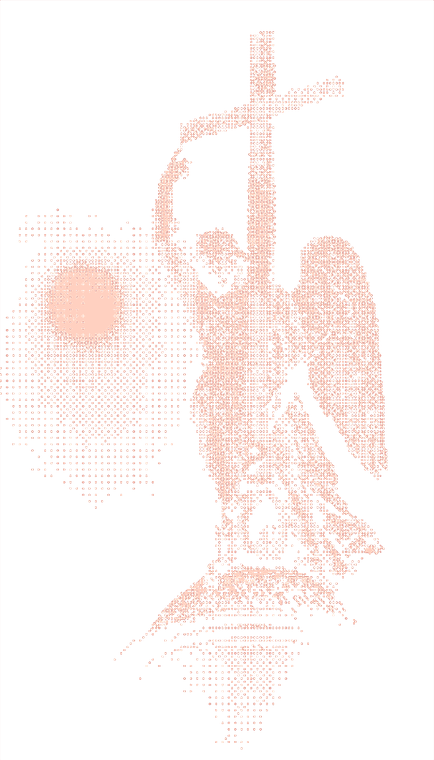
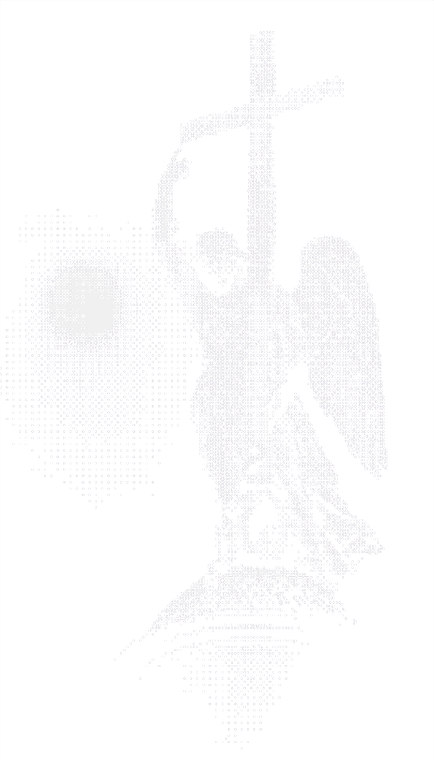
feat(mensajes): las 3 figuras del fondo en gris-tinta (sin rojo) + burbujas/acciones del chat en tema Tinta
- chat-fig-izq/centro/der.png: reprocesadas en gris-tinta (colorize a
  #c8c6d0 con brillos fríos) en vez del rojo #c0524a — el fondo va todo en
  Tinta; el único color que queda es el rojo de las palabras de Cristo del
  texto red-letter.
- Bubble.js: acciones al pasar el mouse (responder / borrar) pasan de un
  botón de texto a íconos que aparecen con un fundido corto (.bubble-act,
  hover en .bubble-wrap); cita de respuesta con la regla gris-tinta + itálica
  de EB Garamond; burbuja de audio deja el fondo blanco/panel y usa el par
  #ecebef / #16161b como el resto.
- chatStyles.js: .reply-btn -> .bubble-actions/.bubble-act.

next build verde; sin errores nuevos de eslint.

Claude-Session: https://claude.ai/code/session_015APmLuZJ7gqRugRfM55xug

Changed region(s): [[0.0, 0.0303, 0.8986, 0.9684]]

diff --git a/frontend/src/components/chat/Bubble.js b/frontend/src/components/chat/Bubble.js
@@ -2,7 +2,6 @@
 
 import { useState } from "react";
 import { API } from "@/lib/api";
-import { HOLO_THEME } from "@/lib/theme";
 import Lightbox from "@/components/Lightbox";
 import MicIcon from "./MicIcon";
 import AudioPlayer from "./AudioPlayer";
@@ -28,7 +27,6 @@ import AudioReplyPreview from "./AudioReplyPreview";
 //     app/chat/page.js, que a su vez usan hooks/useChat.js.
 // ════════════════════════════════════════════════════════════════════════
 export default function Bubble({ msg, esPropio, replyMsg, onReply, onDelete }) {
-  const [hov,      setHov]      = useState(false);
   const [delPhase, setDelPhase] = useState("idle");
   const [lightbox, setLightbox] = useState(false);
   const formatTime = d => d ? new Date(d).toLocaleTimeString("es-MX", { hour:"2-digit", minute:"2-digit" }) : "";
@@ -43,47 +41,48 @@ export default function Bubble({ msg, esPropio, replyMsg, onReply, onDelete }) {
     }, 320);
   };
 
-  const trashCol = delPhase === "idle" ? "rgba(255,255,255,.4)" : "rgba(255,80,80,.85)";
+  const trashCol = delPhase === "idle" ? "currentColor" : "rgba(255,80,80,.85)";
 
   return (
-    <div onMouseEnter={() => setHov(true)} onMouseLeave={() => setHov(false)}
+    <div className="bubble-wrap"
       style={{ display:"flex", flexDirection:"column", alignItems: esPropio ? "flex-end" : "flex-start", gap:3 }}>
 
-      {hov && (
-        <div style={{ display:"flex", gap:4, alignItems:"center", marginBottom:2 }}>
-          <div className="reply-btn" onClick={() => onReply(msg)}>↩ responder</div>
-          {esPropio && (
-            <button onClick={handleDelete} title="Eliminar"
-              style={{ background:"none", border:"none", cursor:"pointer", padding:"2px 4px", display:"flex", alignItems:"center" }}>
-              <div style={{
-                transition: delPhase==="shrink" ? "all .28s cubic-bezier(.4,0,.6,1)" : "none",
-                transform: delPhase==="shrink" ? "scale(.05) perspective(200px) translateZ(-80px)" : delPhase==="open" ? "scale(1.15)" : "scale(1)",
-                opacity: delPhase==="gone" ? 0 : 1,
-              }}>
-                <svg width="14" height="16" viewBox="0 0 12 14" fill="none">
-                  <rect x="1" y="3" width="10" height="10" rx="1" stroke={trashCol} strokeWidth="1"/>
-                  <path d="M4 3V2a1 1 0 0 1 1-1h2a1 1 0 0 1 1 1v1" stroke={trashCol} strokeWidth="1"/>
-                  <line x1="0" y1="3" x2="12" y2="3" stroke={trashCol} strokeWidth="1"/>
-                  <line x1="4.5" y1="6" x2="4.5" y2="10" stroke={trashCol} strokeWidth="1"/>
-                  <line x1="7.5" y1="6" x2="7.5" y2="10" stroke={trashCol} strokeWidth="1"/>
-                </svg>
-              </div>
-            </button>
-          )}
-        </div>
-      )}
+      <div className="bubble-actions">
+        <button className="bubble-act" onClick={() => onReply(msg)} title="Responder">
+          <svg width="14" height="14" viewBox="0 0 24 24" fill="none" stroke="currentColor" strokeWidth="1.8" strokeLinecap="round" strokeLinejoin="round">
+            <polyline points="9 14 4 9 9 4"/><path d="M4 9h11a5 5 0 0 1 5 5v3"/>
+          </svg>
+        </button>
+        {esPropio && (
+          <button className="bubble-act del" onClick={handleDelete} title="Eliminar">
+            <div style={{
+              transition: delPhase==="shrink" ? "all .28s cubic-bezier(.4,0,.6,1)" : "none",
+              transform: delPhase==="shrink" ? "scale(.05) perspective(200px) translateZ(-80px)" : delPhase==="open" ? "scale(1.15)" : "scale(1)",
+              opacity: delPhase==="gone" ? 0 : 1,
+            }}>
+              <svg width="14" height="15" viewBox="0 0 12 14" fill="none">
+                <rect x="1" y="3" width="10" height="10" rx="1" stroke={trashCol} strokeWidth="1"/>
+                <path d="M4 3V2a1 1 0 0 1 1-1h2a1 1 0 0 1 1 1v1" stroke={trashCol} strokeWidth="1"/>
+                <line x1="0" y1="3" x2="12" y2="3" stroke={trashCol} strokeWidth="1"/>
+                <line x1="4.5" y1="6" x2="4.5" y2="10" stroke={trashCol} strokeWidth="1"/>
+                <line x1="7.5" y1="6" x2="7.5" y2="10" stroke={trashCol} strokeWidth="1"/>
+              </svg>
+            </div>
+          </button>
+        )}
+      </div>
 
       {lightbox && isImageMsg && <Lightbox src={msg.imageUrl} onClose={() => setLightbox(false)} />}
 
-      <div className={esPropio ? "bubble-me" : "bubble-other"} style={ isAudioMsg ? { background: esPropio ? HOLO_THEME.text : HOLO_THEME.panel } : isImageMsg ? { background: "transparent", padding: 0 } : {} }>
+      <div className={esPropio ? "bubble-me" : "bubble-other"} style={ isAudioMsg ? { background: esPropio ? "#ecebef" : "#16161b" } : isImageMsg ? { background: "transparent", padding: 0 } : {} }>
         {replyMsg && (
           <div className={esPropio ? "reply-bar-me" : "reply-bar-other"}>
-            <div style={{ width:2.5, borderRadius:2, background: esPropio ? "rgba(10,10,13,.22)" : "rgba(255,255,255,.28)", alignSelf:"stretch", flexShrink:0 }} />
+            <div style={{ width:2, borderRadius:2, background: esPropio ? "rgba(21,19,24,.28)" : "#b8b3c2", alignSelf:"stretch", flexShrink:0 }} />
             <div style={{ minWidth:0 }}>
-              <div style={{ fontSize:11, fontFamily:"'Space Mono',monospace", color: esPropio ? "rgba(10,10,13,.6)" : "rgba(255,255,255,.58)", marginBottom:2, letterSpacing:".04em" }}>
+              <div style={{ fontSize:11, fontFamily:"'Space Mono',monospace", color: esPropio ? "rgba(21,19,24,.55)" : "rgba(255,255,255,.5)", marginBottom:2, letterSpacing:".04em" }}>
                 {replyMsg.emisor?.username || "Tú"}
               </div>
-              <div style={{ fontSize:13, fontFamily:"'Inter',sans-serif", color: esPropio ? "rgba(10,10,13,.42)" : "rgba(255,255,255,.36)", overflow:"hidden", textOverflow:"ellipsis", whiteSpace:"nowrap", maxWidth:280 }}>
+              <div style={{ fontSize:13, fontFamily:"'EB Garamond',Georgia,serif", fontStyle:"italic", color: esPropio ? "rgba(21,19,24,.5)" : "rgba(255,255,255,.42)", overflow:"hidden", textOverflow:"ellipsis", whiteSpace:"nowrap", maxWidth:280 }}>
                 {replyMsg.tipo === "audio" && replyMsg.audioUrl
                   ? <AudioReplyPreview src={replyMsg.audioUrl} />
                   : replyMsg.contenido}

diff --git a/frontend/src/app/chat/chatStyles.js b/frontend/src/app/chat/chatStyles.js
@@ -68,8 +68,14 @@ export const chatStyles = `
       .bubble-time-other { font-size:11px; color:rgba(242,240,248,.3); white-space:nowrap; flex-shrink:0; font-family:'Space Mono',monospace; letter-spacing:.05em; margin-top:auto; }
       .reply-bar-me    { padding:8px 14px 7px; background:rgba(10,10,13,.07); border-bottom:1px solid rgba(10,10,13,.07); display:flex; gap:8px; }
       .reply-bar-other { padding:8px 14px 7px; background:rgba(255,255,255,.05); border-bottom:1px solid ${HOLO_THEME.hairlineSoft}; display:flex; gap:8px; }
-      .reply-btn { padding:3px 12px; background:rgba(255,255,255,.05); border-radius:999px; border:1px solid ${HOLO_THEME.hairlineSoft}; font-size:12px; font-family:'Space Mono',monospace; color:${HOLO_THEME.textDim}; cursor:pointer; display:inline-flex; gap:4px; align-items:center; animation:fadeIn .1s ease; letter-spacing:.06em; transition:all .15s; }
-      .reply-btn:hover { background:rgba(255,255,255,.1); color:${HOLO_THEME.text}; }
+      /* Acciones al pasar el mouse por un mensaje (responder / borrar) —
+         íconos que aparecen con un fundido corto, no un botón de texto. */
+      .bubble-actions { display:flex; gap:2px; margin-bottom:3px; opacity:0; transform:translateY(2px); transition:opacity .16s, transform .16s; }
+      .bubble-wrap:hover .bubble-actions { opacity:1; transform:none; }
+      .bubble-act { width:26px; height:26px; border-radius:7px; display:flex; align-items:center; justify-content:center; color:${HOLO_THEME.textDim}; background:none; border:0; cursor:pointer; padding:0; transition:color .14s, background .14s, transform .12s; }
+      .bubble-act:hover { background:rgba(255,255,255,.06); color:${HOLO_THEME.text}; }
+      .bubble-act:active { transform:scale(.86); }
+      .bubble-act.del:hover { color:rgba(255,80,80,.9); }
       .chat-input { flex:1; background:transparent; border:none; color:${HOLO_THEME.text}; font-family:'Inter',sans-serif; font-size:15px; padding:12px 8px 12px 16px; outline:none; letter-spacing:.02em; }
       .chat-input::placeholder { color:rgba(242,240,248,.28); }
       .input-wrap { flex:1; display:flex; background:${HOLO_THEME.panel}; border-radius:24px; overflow:hidden; border:1px solid ${HOLO_THEME.hairlineSoft}; transition:border-color .2s; align-items:center; }
